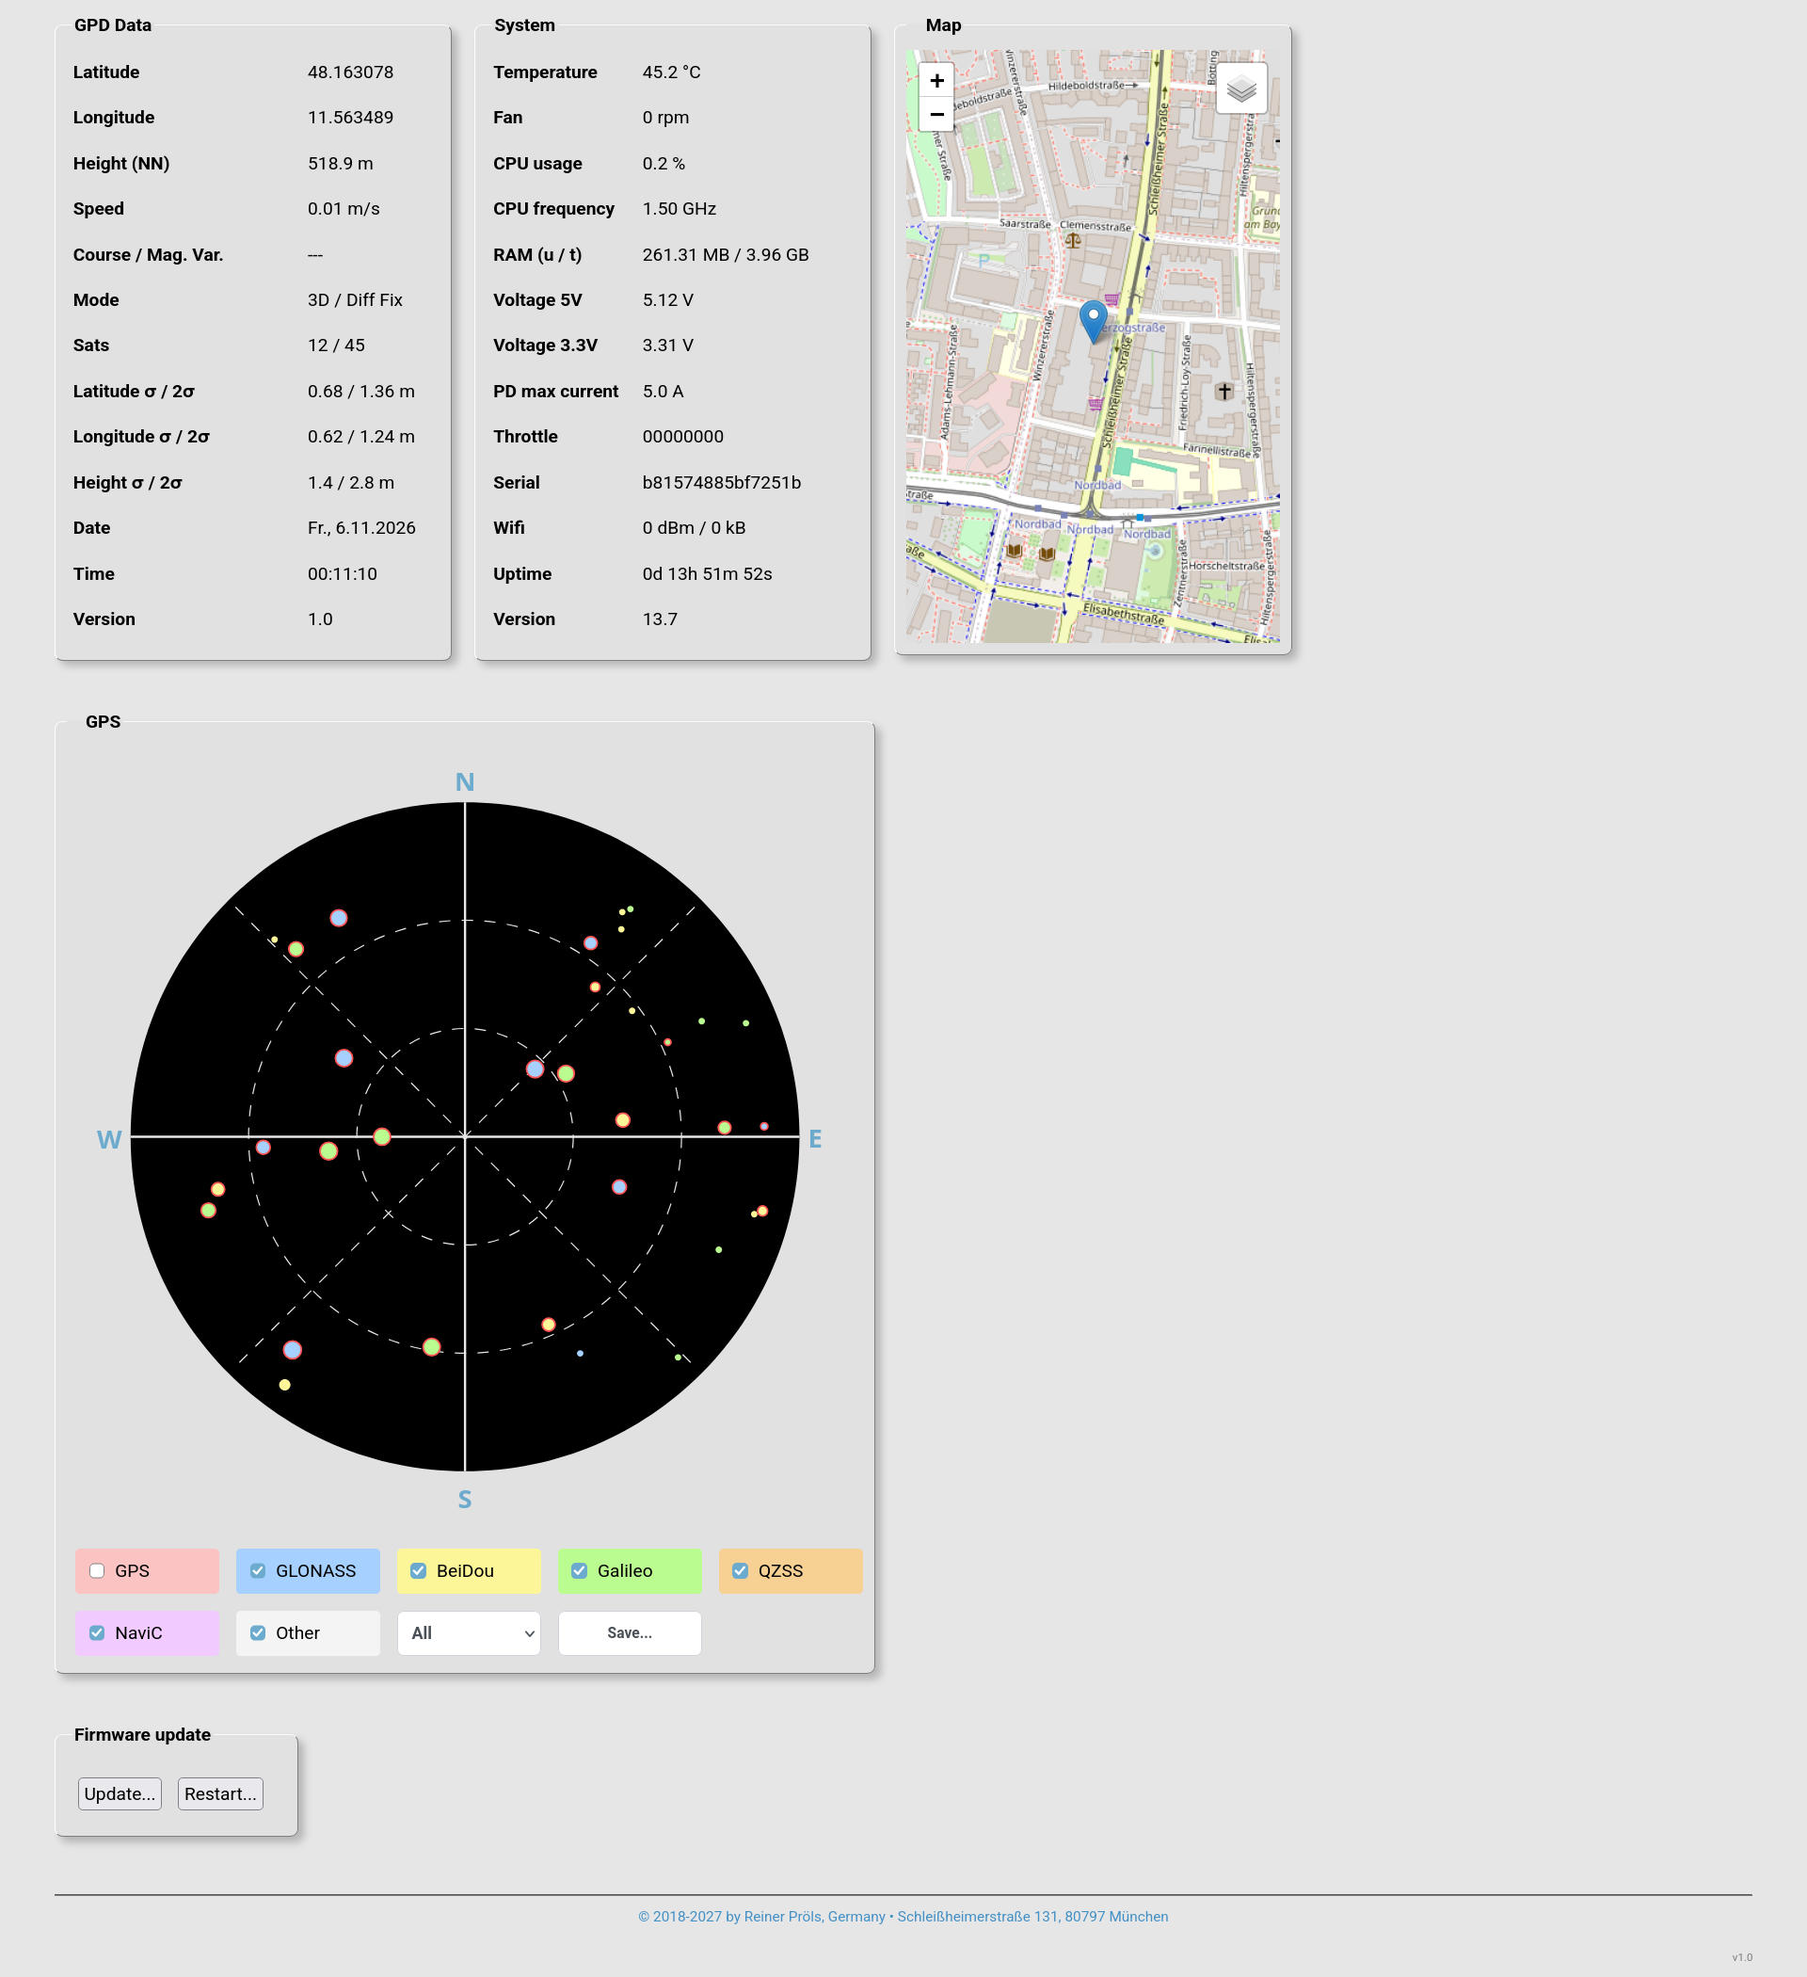
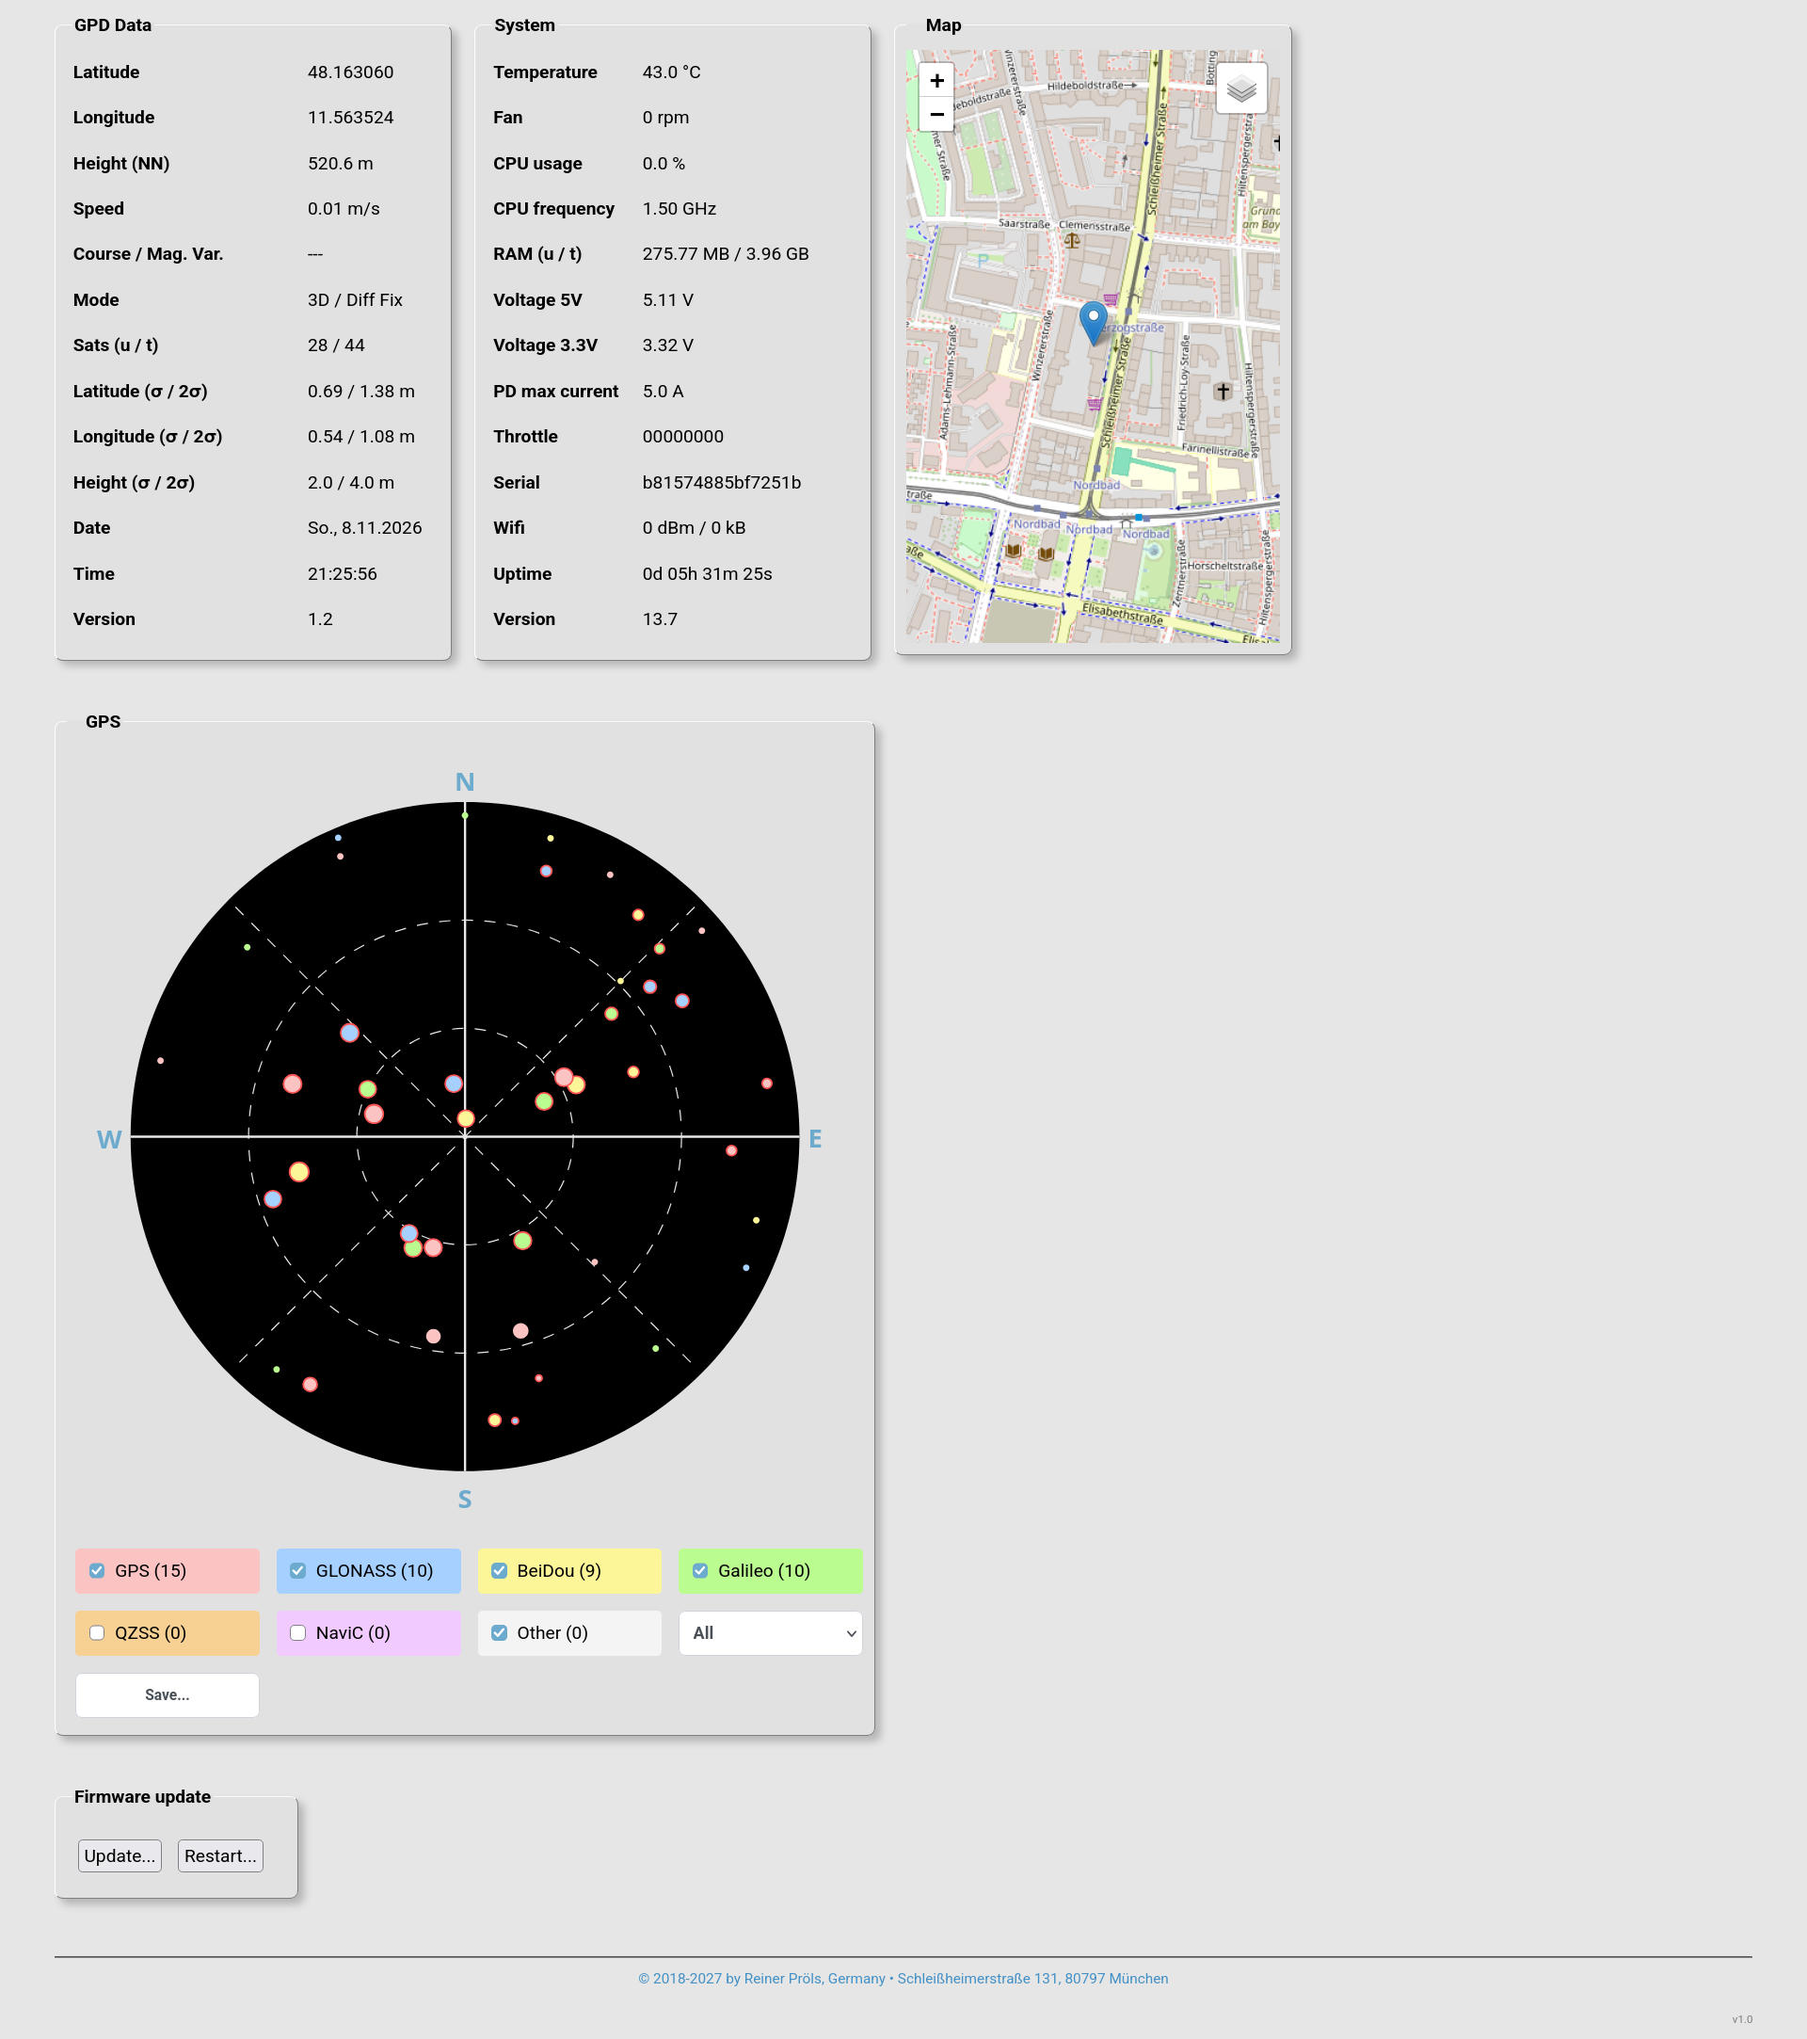
Screenshots

diff --git a/webserver/web/gpsmonitor.css b/webserver/web/gpsmonitor.css
@@ -166,6 +166,12 @@ Trebuchet MS Sans-serif
 	width: 42%;
     white-space: nowrap;
 }
+
+.status_table td
+{
+    line-height: 1.5;
+}
+
 /*---*/
 
 /* SVG */
